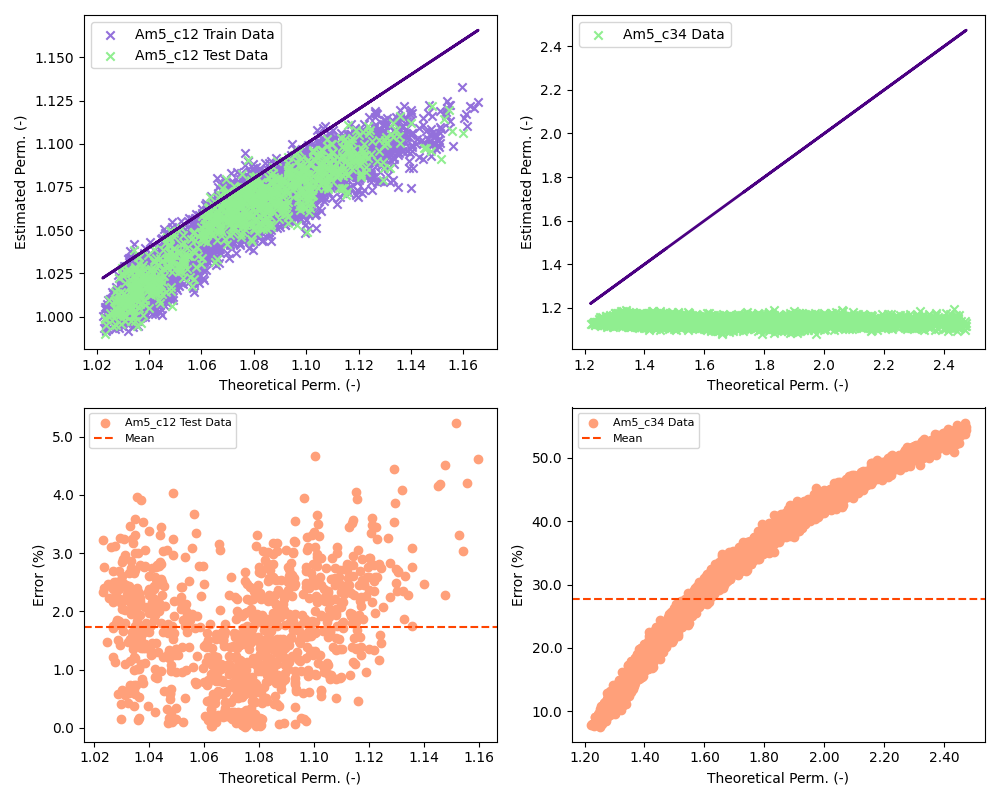
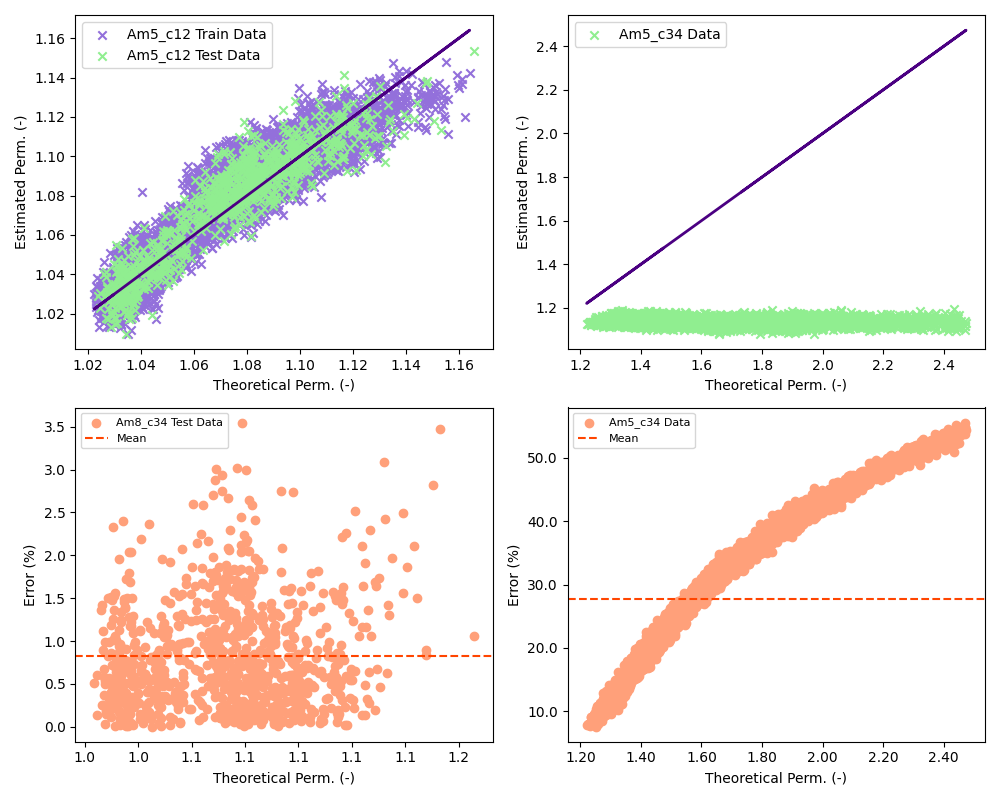
ended

diff --git a/PostProcessing4.py b/PostProcessing4.py
@@ -7,22 +7,22 @@ import seaborn as sns
 import matplotlib.ticker as ticker
 
 # Inport csv
-modelName = 'Am8_c34_Topology 2c'
-TestDataframe = pd.read_csv('./vCNN/Topologies/Next/Test/'+modelName+'.csv',sep=';')
-TrainDataframe = pd.read_csv('./vCNN/Topologies/Next/Train/'+modelName+'.csv',sep=';')
-base = 'AM8C34' # remind to update
+modelName = 'Am5_c12_Topology 2'
+TestDataframe = pd.read_csv('./vCNN/Topologies/Test/'+modelName+'.csv',sep=';')
+TrainDataframe = pd.read_csv('./vCNN/Topologies/Train/'+modelName+'.csv',sep=';')
+base = 'AM5C12' # remind to update
 top = '_T2_'
-pred = 'AM5C34' # remind to update
+pred = 'AM5C34b' # remind to update
 TopologyDataframe = pd.read_csv('./vCNN/Topologies/Next/Pred/'+base+top+pred+'.csv',sep=';')
 
 # Data Analysis
 fig, ax = plt.subplots(nrows = 2, ncols = 2, sharex=False, sharey=False, figsize = (10,8))
 ax[0,0].scatter(TrainDataframe['Keq/Kpm_teo'],
-                    TrainDataframe['Keq/Kpm_est'], color='mediumpurple', marker='x', label = 'Am8_c34 Train Data')
+                    TrainDataframe['Keq/Kpm_est'], color='mediumpurple', marker='x', label = 'Am5_c12 Train Data')
 ax[0,0].plot(TrainDataframe['Keq/Kpm_teo'],
                         TrainDataframe['Keq/Kpm_teo'], color='indigo', linewidth=2.0)
 ax[0,0].scatter(TestDataframe['Keq/Kpm_teo'],
-                    TestDataframe['Keq/Kpm_est'], color='lightgreen', marker='x', label = 'Am8_c34 Test Data')
+                    TestDataframe['Keq/Kpm_est'], color='lightgreen', marker='x', label = 'Am5_c12 Test Data')
 ax[0,0].legend(loc = "upper left", fontsize = 10)                        
 ax[0,0].set_ylabel(ylabel = 'Estimated Perm. (-)', fontsize = 10)
 ax[0,0].set_xlabel(xlabel = 'Theoretical Perm. (-)', fontsize = 10)

diff --git a/debug2.py b/debug2.py
@@ -24,17 +24,17 @@ ax[0].set_ylabel(ylabel = 'Estimated Perm. (-)', fontsize = 10)
 ax[0].set_xlabel(xlabel = 'Theoretical Perm. (-)', fontsize = 10)
 #ax[0,0].set_xlim([1.00, 2.5])
 #ax[0].set_ylim([1.00, 2.5])
-ax[1].scatter(TestDataframe['Keq/Kpm_teo'],TestDataframe['Error (%)'], 
+ax[1].scatter(TestDataframe['Keq/Kpm_teo'],abs(TestDataframe['Keq/Kpm_teo']-TestDataframe['Keq/Kpm_est']), 
                                         color = 'lightsalmon', label = 'Am8_c34 Test Data')
-ax[1].axhline(y = TestDataframe['Error (%)'].mean(), color = 'orangered', linestyle = '--', label = 'Mean')
+ax[1].axhline(y = abs(TestDataframe['Keq/Kpm_teo']-TestDataframe['Keq/Kpm_est']).mean(), color = 'orangered', linestyle = '--', label = 'Mean')
 ax[1].set_xlabel(xlabel = 'Theoretical Perm. (-)', fontsize = 10)
-ax[1].set_ylabel(ylabel = 'Error (%)', fontsize = 10)
+ax[1].set_ylabel(ylabel = 'Absolute Error', fontsize = 10)
 #ax[1].set_xlim([1.00, 1.20])
 #ax[1].set_ylim([-0.50, 100.00])
 ax[1].xaxis.set_major_formatter(ticker.FormatStrFormatter('%.0f'))
-ax[1].yaxis.set_major_formatter(ticker.FormatStrFormatter('%.1f'))
+ax[1].yaxis.set_major_formatter(ticker.FormatStrFormatter('%.0f'))
 ax[1].legend(loc = "best", fontsize = 8)
 
 fig.tight_layout()
-fig.savefig('./vCNN/Topologies/'+modelName+'_Error.png')
+fig.savefig('./vCNN/Topologies/'+modelName+'_ErrorAbs.png')
 print('\nEnd\n')
